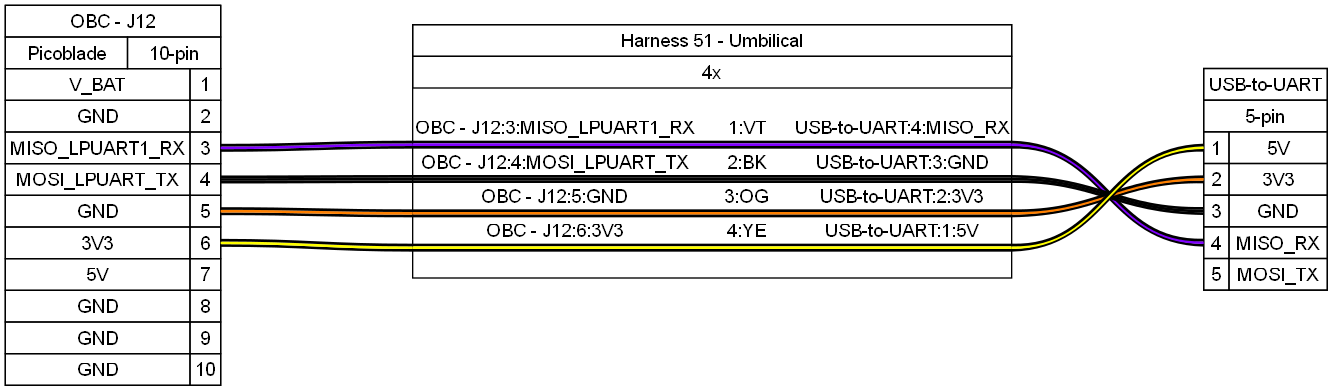
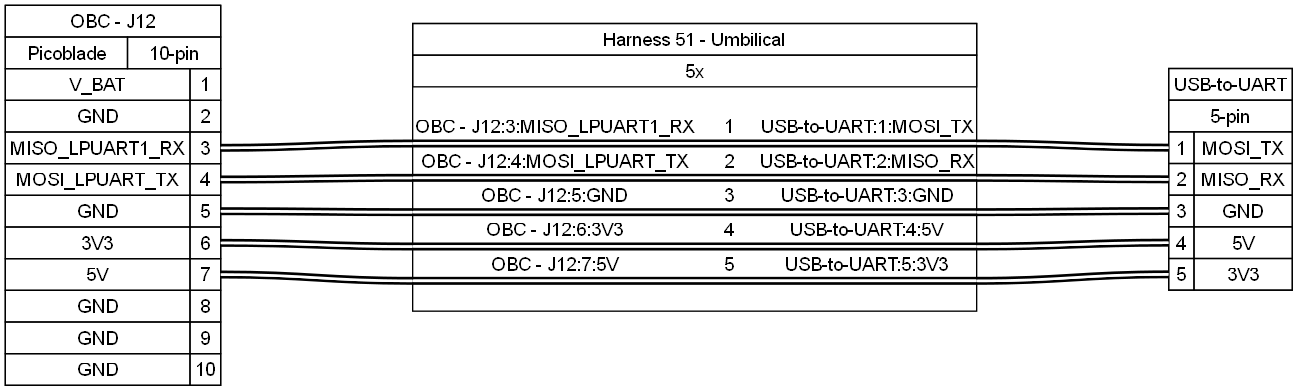
Harness 51 complete
Note that a "hypothetical" USB-to-UART was used

diff --git a/harness51.html b/harness51.html
@@ -33,10 +33,10 @@
 <!-- Generated by graphviz version 12.2.1 (20241206.2353)
  -->
 <!-- Pages: 1 -->
-<svg width="1000pt" height="293pt"
- viewBox="0.00 0.00 999.50 293.00" xmlns="http://www.w3.org/2000/svg" xmlns:xlink="http://www.w3.org/1999/xlink">
+<svg width="973pt" height="293pt"
+ viewBox="0.00 0.00 973.25 293.00" xmlns="http://www.w3.org/2000/svg" xmlns:xlink="http://www.w3.org/1999/xlink">
 <g id="graph0" class="graph" transform="scale(1 1) rotate(0) translate(4 289)">
-<polygon fill="#ffffff" stroke="none" points="-4,4 -4,-289 995.5,-289 995.5,4 -4,4"/>
+<polygon fill="#ffffff" stroke="none" points="-4,4 -4,-289 969.25,-289 969.25,4 -4,4"/>
 <!-- OBC &#45; J12 -->
 <g id="node1" class="node">
 <title>OBC &#45; J12</title>
@@ -91,122 +91,142 @@
 <!-- Harness 51 &#45; Umbilical -->
 <g id="node3" class="node">
 <title>Harness 51 &#45; Umbilical</title>
-<polygon fill="#ffffff" stroke="black" points="754.75,-270.5 305.5,-270.5 305.5,-80.5 754.75,-80.5 754.75,-270.5"/>
-<polygon fill="none" stroke="black" points="305.5,-246.75 305.5,-270.5 754.75,-270.5 754.75,-246.75 305.5,-246.75"/>
-<text text-anchor="start" x="461.88" y="-253.2" font-family="arial" font-size="14.00">Harness 51 &#45; Umbilical</text>
-<polygon fill="none" stroke="black" points="305.5,-223 305.5,-246.75 754.75,-246.75 754.75,-223 305.5,-223"/>
-<text text-anchor="start" x="523" y="-229.45" font-family="arial" font-size="14.00">4x</text>
-<text text-anchor="start" x="410.25" y="-207.7" font-family="arial" font-size="14.00"> </text>
-<text text-anchor="start" x="307.5" y="-187.95" font-family="arial" font-size="14.00">OBC &#45; J12:3:MISO_LPUART1_RX</text>
-<text text-anchor="start" x="523.38" y="-187.95" font-family="arial" font-size="14.00"> &#160;&#160;&#160;&#160;1:VT &#160;&#160;&#160;</text>
-<text text-anchor="start" x="592.25" y="-187.95" font-family="arial" font-size="14.00">USB&#45;to&#45;UART:4:MISO_RX</text>
-<polygon fill="#000000" stroke="none" points="305.5,-181.5 305.5,-183.5 754.75,-183.5 754.75,-181.5 305.5,-181.5"/>
-<polygon fill="#8000ff" stroke="none" points="305.5,-179.5 305.5,-181.5 754.75,-181.5 754.75,-179.5 305.5,-179.5"/>
-<polygon fill="#000000" stroke="none" points="305.5,-177.5 305.5,-179.5 754.75,-179.5 754.75,-177.5 305.5,-177.5"/>
-<text text-anchor="start" x="312" y="-162.2" font-family="arial" font-size="14.00">OBC &#45; J12:4:MOSI_LPUART_TX</text>
-<text text-anchor="start" x="523" y="-162.2" font-family="arial" font-size="14.00"> &#160;&#160;&#160;&#160;2:BK &#160;&#160;&#160;</text>
-<text text-anchor="start" x="608" y="-162.2" font-family="arial" font-size="14.00">USB&#45;to&#45;UART:3:GND</text>
-<polygon fill="#000000" stroke="none" points="305.5,-155.75 305.5,-157.75 754.75,-157.75 754.75,-155.75 305.5,-155.75"/>
-<polygon fill="#000000" stroke="none" points="305.5,-153.75 305.5,-155.75 754.75,-155.75 754.75,-153.75 305.5,-153.75"/>
-<polygon fill="#000000" stroke="none" points="305.5,-151.75 305.5,-153.75 754.75,-153.75 754.75,-151.75 305.5,-151.75"/>
-<text text-anchor="start" x="357.38" y="-136.45" font-family="arial" font-size="14.00">OBC &#45; J12:5:GND</text>
-<text text-anchor="start" x="520.75" y="-136.45" font-family="arial" font-size="14.00"> &#160;&#160;&#160;&#160;3:OG &#160;&#160;&#160;</text>
-<text text-anchor="start" x="611.38" y="-136.45" font-family="arial" font-size="14.00">USB&#45;to&#45;UART:2:3V3</text>
-<polygon fill="#000000" stroke="none" points="305.5,-130 305.5,-132 754.75,-132 754.75,-130 305.5,-130"/>
-<polygon fill="#ff8000" stroke="none" points="305.5,-128 305.5,-130 754.75,-130 754.75,-128 305.5,-128"/>
-<polygon fill="#000000" stroke="none" points="305.5,-126 305.5,-128 754.75,-128 754.75,-126 305.5,-126"/>
-<text text-anchor="start" x="360.75" y="-110.7" font-family="arial" font-size="14.00">OBC &#45; J12:6:3V3</text>
-<text text-anchor="start" x="523" y="-110.7" font-family="arial" font-size="14.00"> &#160;&#160;&#160;&#160;4:YE &#160;&#160;&#160;</text>
-<text text-anchor="start" x="615.12" y="-110.7" font-family="arial" font-size="14.00">USB&#45;to&#45;UART:1:5V</text>
-<polygon fill="#000000" stroke="none" points="305.5,-104.25 305.5,-106.25 754.75,-106.25 754.75,-104.25 305.5,-104.25"/>
-<polygon fill="#ffff00" stroke="none" points="305.5,-102.25 305.5,-104.25 754.75,-104.25 754.75,-102.25 305.5,-102.25"/>
-<polygon fill="#000000" stroke="none" points="305.5,-100.25 305.5,-102.25 754.75,-102.25 754.75,-100.25 305.5,-100.25"/>
-<text text-anchor="start" x="410.25" y="-84.95" font-family="arial" font-size="14.00"> </text>
+<polygon fill="#ffffff" stroke="black" points="728.5,-271.38 305.5,-271.38 305.5,-55.62 728.5,-55.62 728.5,-271.38"/>
+<polygon fill="none" stroke="black" points="305.5,-247.62 305.5,-271.38 728.5,-271.38 728.5,-247.62 305.5,-247.62"/>
+<text text-anchor="start" x="448.75" y="-254.07" font-family="arial" font-size="14.00">Harness 51 &#45; Umbilical</text>
+<polygon fill="none" stroke="black" points="305.5,-223.88 305.5,-247.62 728.5,-247.62 728.5,-223.88 305.5,-223.88"/>
+<text text-anchor="start" x="509.88" y="-230.32" font-family="arial" font-size="14.00">5x</text>
+<text text-anchor="start" x="410.25" y="-208.57" font-family="arial" font-size="14.00"> </text>
+<text text-anchor="start" x="307.5" y="-188.82" font-family="arial" font-size="14.00">OBC &#45; J12:3:MISO_LPUART1_RX</text>
+<text text-anchor="start" x="520.75" y="-188.82" font-family="arial" font-size="14.00"> &#160;&#160;&#160;&#160;1 &#160;&#160;&#160;</text>
+<text text-anchor="start" x="566.75" y="-188.82" font-family="arial" font-size="14.00">USB&#45;to&#45;UART:1:MOSI_TX</text>
+<polygon fill="#000000" stroke="none" points="305.5,-182.38 305.5,-184.38 728.5,-184.38 728.5,-182.38 305.5,-182.38"/>
+<polygon fill="#ffffff" stroke="none" points="305.5,-180.38 305.5,-182.38 728.5,-182.38 728.5,-180.38 305.5,-180.38"/>
+<polygon fill="#000000" stroke="none" points="305.5,-178.38 305.5,-180.38 728.5,-180.38 728.5,-178.38 305.5,-178.38"/>
+<text text-anchor="start" x="312" y="-163.07" font-family="arial" font-size="14.00">OBC &#45; J12:4:MOSI_LPUART_TX</text>
+<text text-anchor="start" x="520.75" y="-163.07" font-family="arial" font-size="14.00"> &#160;&#160;&#160;&#160;2 &#160;&#160;&#160;</text>
+<text text-anchor="start" x="566" y="-163.07" font-family="arial" font-size="14.00">USB&#45;to&#45;UART:2:MISO_RX</text>
+<polygon fill="#000000" stroke="none" points="305.5,-156.62 305.5,-158.62 728.5,-158.62 728.5,-156.62 305.5,-156.62"/>
+<polygon fill="#ffffff" stroke="none" points="305.5,-154.62 305.5,-156.62 728.5,-156.62 728.5,-154.62 305.5,-154.62"/>
+<polygon fill="#000000" stroke="none" points="305.5,-152.62 305.5,-154.62 728.5,-154.62 728.5,-152.62 305.5,-152.62"/>
+<text text-anchor="start" x="357.38" y="-137.32" font-family="arial" font-size="14.00">OBC &#45; J12:5:GND</text>
+<text text-anchor="start" x="520.75" y="-137.32" font-family="arial" font-size="14.00"> &#160;&#160;&#160;&#160;3 &#160;&#160;&#160;</text>
+<text text-anchor="start" x="581.75" y="-137.32" font-family="arial" font-size="14.00">USB&#45;to&#45;UART:3:GND</text>
+<polygon fill="#000000" stroke="none" points="305.5,-130.88 305.5,-132.88 728.5,-132.88 728.5,-130.88 305.5,-130.88"/>
+<polygon fill="#ffffff" stroke="none" points="305.5,-128.88 305.5,-130.88 728.5,-130.88 728.5,-128.88 305.5,-128.88"/>
+<polygon fill="#000000" stroke="none" points="305.5,-126.88 305.5,-128.88 728.5,-128.88 728.5,-126.88 305.5,-126.88"/>
+<text text-anchor="start" x="360.75" y="-111.58" font-family="arial" font-size="14.00">OBC &#45; J12:6:3V3</text>
+<text text-anchor="start" x="520.75" y="-111.58" font-family="arial" font-size="14.00"> &#160;&#160;&#160;&#160;4 &#160;&#160;&#160;</text>
+<text text-anchor="start" x="588.88" y="-111.58" font-family="arial" font-size="14.00">USB&#45;to&#45;UART:4:5V</text>
+<polygon fill="#000000" stroke="none" points="305.5,-105.12 305.5,-107.12 728.5,-107.12 728.5,-105.12 305.5,-105.12"/>
+<polygon fill="#ffffff" stroke="none" points="305.5,-103.12 305.5,-105.12 728.5,-105.12 728.5,-103.12 305.5,-103.12"/>
+<polygon fill="#000000" stroke="none" points="305.5,-101.12 305.5,-103.12 728.5,-103.12 728.5,-101.12 305.5,-101.12"/>
+<text text-anchor="start" x="364.5" y="-85.83" font-family="arial" font-size="14.00">OBC &#45; J12:7:5V</text>
+<text text-anchor="start" x="520.75" y="-85.83" font-family="arial" font-size="14.00"> &#160;&#160;&#160;&#160;5 &#160;&#160;&#160;</text>
+<text text-anchor="start" x="585.12" y="-85.83" font-family="arial" font-size="14.00">USB&#45;to&#45;UART:5:3V3</text>
+<polygon fill="#000000" stroke="none" points="305.5,-79.38 305.5,-81.38 728.5,-81.38 728.5,-79.38 305.5,-79.38"/>
+<polygon fill="#ffffff" stroke="none" points="305.5,-77.38 305.5,-79.38 728.5,-79.38 728.5,-77.38 305.5,-77.38"/>
+<polygon fill="#000000" stroke="none" points="305.5,-75.38 305.5,-77.38 728.5,-77.38 728.5,-75.38 305.5,-75.38"/>
+<text text-anchor="start" x="410.25" y="-60.08" font-family="arial" font-size="14.00"> </text>
 </g>
 <!-- OBC &#45; J12&#45;&#45;Harness 51 &#45; Umbilical -->
 <g id="edge1" class="edge">
 <title>OBC &#45; J12:e&#45;&#45;Harness 51 &#45; Umbilical:w</title>
-<path fill="none" stroke="#000000" stroke-width="2" d="M161.5,-176.13C225.8,-176.15 241.79,-178.52 305.5,-178.5"/>
-<path fill="none" stroke="#8000ff" stroke-width="2" d="M161.5,-178.12C225.51,-178.12 241.49,-180.5 305.5,-180.5"/>
-<path fill="none" stroke="#000000" stroke-width="2" d="M161.5,-180.12C225.21,-180.1 241.2,-182.48 305.5,-182.5"/>
+<path fill="none" stroke="#000000" stroke-width="2" d="M161.5,-176.13C225.92,-176.17 241.88,-179.42 305.5,-179.38"/>
+<path fill="none" stroke="#ffffff" stroke-width="2" d="M161.5,-178.12C225.52,-178.13 241.48,-181.38 305.5,-181.38"/>
+<path fill="none" stroke="#000000" stroke-width="2" d="M161.5,-180.12C225.12,-180.08 241.08,-183.33 305.5,-183.37"/>
 </g>
 <!-- OBC &#45; J12&#45;&#45;Harness 51 &#45; Umbilical -->
 <g id="edge3" class="edge">
 <title>OBC &#45; J12:e&#45;&#45;Harness 51 &#45; Umbilical:w</title>
-<path fill="none" stroke="#000000" stroke-width="2" d="M161.5,-152.38C225.55,-152.38 241.55,-152.75 305.5,-152.75"/>
-<path fill="none" stroke="#000000" stroke-width="2" d="M161.5,-154.37C225.5,-154.37 241.5,-154.75 305.5,-154.75"/>
-<path fill="none" stroke="#000000" stroke-width="2" d="M161.5,-156.37C225.45,-156.37 241.45,-156.75 305.5,-156.75"/>
+<path fill="none" stroke="#000000" stroke-width="2" d="M161.5,-152.38C225.66,-152.38 241.65,-153.63 305.5,-153.63"/>
+<path fill="none" stroke="#ffffff" stroke-width="2" d="M161.5,-154.37C225.5,-154.37 241.5,-155.62 305.5,-155.62"/>
+<path fill="none" stroke="#000000" stroke-width="2" d="M161.5,-156.37C225.35,-156.37 241.34,-157.62 305.5,-157.62"/>
 </g>
 <!-- OBC &#45; J12&#45;&#45;Harness 51 &#45; Umbilical -->
 <g id="edge5" class="edge">
 <title>OBC &#45; J12:e&#45;&#45;Harness 51 &#45; Umbilical:w</title>
-<path fill="none" stroke="#000000" stroke-width="2" d="M161.5,-128.63C225.3,-128.64 241.29,-127.01 305.5,-127"/>
-<path fill="none" stroke="#ff8000" stroke-width="2" d="M161.5,-130.62C225.5,-130.62 241.5,-129 305.5,-129"/>
-<path fill="none" stroke="#000000" stroke-width="2" d="M161.5,-132.62C225.71,-132.61 241.7,-130.99 305.5,-131"/>
+<path fill="none" stroke="#000000" stroke-width="2" d="M161.5,-128.63C225.41,-128.63 241.41,-127.88 305.5,-127.88"/>
+<path fill="none" stroke="#ffffff" stroke-width="2" d="M161.5,-130.62C225.5,-130.62 241.5,-129.88 305.5,-129.88"/>
+<path fill="none" stroke="#000000" stroke-width="2" d="M161.5,-132.62C225.59,-132.62 241.59,-131.87 305.5,-131.87"/>
 </g>
 <!-- OBC &#45; J12&#45;&#45;Harness 51 &#45; Umbilical -->
 <g id="edge7" class="edge">
 <title>OBC &#45; J12:e&#45;&#45;Harness 51 &#45; Umbilical:w</title>
-<path fill="none" stroke="#000000" stroke-width="2" d="M161.5,-104.88C225.08,-104.92 241.04,-101.3 305.5,-101.25"/>
-<path fill="none" stroke="#ffff00" stroke-width="2" d="M161.5,-106.88C225.52,-106.88 241.48,-103.25 305.5,-103.25"/>
-<path fill="none" stroke="#000000" stroke-width="2" d="M161.5,-108.87C225.96,-108.83 241.92,-105.2 305.5,-105.25"/>
+<path fill="none" stroke="#000000" stroke-width="2" d="M161.5,-104.88C225.17,-104.9 241.15,-102.15 305.5,-102.13"/>
+<path fill="none" stroke="#ffffff" stroke-width="2" d="M161.5,-106.87C225.51,-106.88 241.49,-104.12 305.5,-104.12"/>
+<path fill="none" stroke="#000000" stroke-width="2" d="M161.5,-108.87C225.85,-108.85 241.83,-106.1 305.5,-106.12"/>
+</g>
+<!-- OBC &#45; J12&#45;&#45;Harness 51 &#45; Umbilical -->
+<g id="edge9" class="edge">
+<title>OBC &#45; J12:e&#45;&#45;Harness 51 &#45; Umbilical:w</title>
+<path fill="none" stroke="#000000" stroke-width="2" d="M161.5,-81.13C224.96,-81.21 240.89,-76.46 305.5,-76.38"/>
+<path fill="none" stroke="#ffffff" stroke-width="2" d="M161.5,-83.12C225.53,-83.12 241.47,-78.37 305.5,-78.37"/>
+<path fill="none" stroke="#000000" stroke-width="2" d="M161.5,-85.12C226.11,-85.04 242.04,-80.29 305.5,-80.37"/>
 </g>
 <!-- USB&#45;to&#45;UART -->
 <g id="node2" class="node">
 <title>USB&#45;to&#45;UART</title>
-<polygon fill="#ffffff" stroke="black" points="991.5,-237.62 898.75,-237.62 898.75,-71.38 991.5,-71.38 991.5,-237.62"/>
-<polygon fill="none" stroke="black" points="898.75,-213.88 898.75,-237.62 991.5,-237.62 991.5,-213.88 898.75,-213.88"/>
-<text text-anchor="start" x="902.75" y="-220.32" font-family="arial" font-size="14.00">USB&#45;to&#45;UART</text>
-<polygon fill="none" stroke="black" points="898.75,-190.12 898.75,-213.88 991.5,-213.88 991.5,-190.12 898.75,-190.12"/>
-<text text-anchor="start" x="930.12" y="-196.57" font-family="arial" font-size="14.00">5&#45;pin</text>
-<polygon fill="none" stroke="black" points="898.75,-166.38 898.75,-190.12 917.75,-190.12 917.75,-166.38 898.75,-166.38"/>
-<text text-anchor="start" x="904.5" y="-172.82" font-family="arial" font-size="14.00">1</text>
-<polygon fill="none" stroke="black" points="917.75,-166.38 917.75,-190.12 991.5,-190.12 991.5,-166.38 917.75,-166.38"/>
-<text text-anchor="start" x="946.38" y="-172.82" font-family="arial" font-size="14.00">5V</text>
-<polygon fill="none" stroke="black" points="898.75,-142.62 898.75,-166.38 917.75,-166.38 917.75,-142.62 898.75,-142.62"/>
-<text text-anchor="start" x="904.5" y="-149.07" font-family="arial" font-size="14.00">2</text>
-<polygon fill="none" stroke="black" points="917.75,-142.62 917.75,-166.38 991.5,-166.38 991.5,-142.62 917.75,-142.62"/>
-<text text-anchor="start" x="942.62" y="-149.07" font-family="arial" font-size="14.00">3V3</text>
-<polygon fill="none" stroke="black" points="898.75,-118.88 898.75,-142.62 917.75,-142.62 917.75,-118.88 898.75,-118.88"/>
-<text text-anchor="start" x="904.5" y="-125.33" font-family="arial" font-size="14.00">3</text>
-<polygon fill="none" stroke="black" points="917.75,-118.88 917.75,-142.62 991.5,-142.62 991.5,-118.88 917.75,-118.88"/>
-<text text-anchor="start" x="939.25" y="-125.33" font-family="arial" font-size="14.00">GND</text>
-<polygon fill="none" stroke="black" points="898.75,-95.12 898.75,-118.88 917.75,-118.88 917.75,-95.12 898.75,-95.12"/>
-<text text-anchor="start" x="904.5" y="-101.58" font-family="arial" font-size="14.00">4</text>
-<polygon fill="none" stroke="black" points="917.75,-95.12 917.75,-118.88 991.5,-118.88 991.5,-95.12 917.75,-95.12"/>
-<text text-anchor="start" x="923.5" y="-101.58" font-family="arial" font-size="14.00">MISO_RX</text>
-<polygon fill="none" stroke="black" points="898.75,-71.38 898.75,-95.12 917.75,-95.12 917.75,-71.38 898.75,-71.38"/>
-<text text-anchor="start" x="904.5" y="-77.83" font-family="arial" font-size="14.00">5</text>
-<polygon fill="none" stroke="black" points="917.75,-71.38 917.75,-95.12 991.5,-95.12 991.5,-71.38 917.75,-71.38"/>
-<text text-anchor="start" x="924.25" y="-77.83" font-family="arial" font-size="14.00">MOSI_TX</text>
+<polygon fill="#ffffff" stroke="black" points="965.25,-237.62 872.5,-237.62 872.5,-71.38 965.25,-71.38 965.25,-237.62"/>
+<polygon fill="none" stroke="black" points="872.5,-213.88 872.5,-237.62 965.25,-237.62 965.25,-213.88 872.5,-213.88"/>
+<text text-anchor="start" x="876.5" y="-220.32" font-family="arial" font-size="14.00">USB&#45;to&#45;UART</text>
+<polygon fill="none" stroke="black" points="872.5,-190.12 872.5,-213.88 965.25,-213.88 965.25,-190.12 872.5,-190.12"/>
+<text text-anchor="start" x="903.88" y="-196.57" font-family="arial" font-size="14.00">5&#45;pin</text>
+<polygon fill="none" stroke="black" points="872.5,-166.38 872.5,-190.12 891.5,-190.12 891.5,-166.38 872.5,-166.38"/>
+<text text-anchor="start" x="878.25" y="-172.82" font-family="arial" font-size="14.00">1</text>
+<polygon fill="none" stroke="black" points="891.5,-166.38 891.5,-190.12 965.25,-190.12 965.25,-166.38 891.5,-166.38"/>
+<text text-anchor="start" x="898" y="-172.82" font-family="arial" font-size="14.00">MOSI_TX</text>
+<polygon fill="none" stroke="black" points="872.5,-142.62 872.5,-166.38 891.5,-166.38 891.5,-142.62 872.5,-142.62"/>
+<text text-anchor="start" x="878.25" y="-149.07" font-family="arial" font-size="14.00">2</text>
+<polygon fill="none" stroke="black" points="891.5,-142.62 891.5,-166.38 965.25,-166.38 965.25,-142.62 891.5,-142.62"/>
+<text text-anchor="start" x="897.25" y="-149.07" font-family="arial" font-size="14.00">MISO_RX</text>
+<polygon fill="none" stroke="black" points="872.5,-118.88 872.5,-142.62 891.5,-142.62 891.5,-118.88 872.5,-118.88"/>
+<text text-anchor="start" x="878.25" y="-125.33" font-family="arial" font-size="14.00">3</text>
+<polygon fill="none" stroke="black" points="891.5,-118.88 891.5,-142.62 965.25,-142.62 965.25,-118.88 891.5,-118.88"/>
+<text text-anchor="start" x="913" y="-125.33" font-family="arial" font-size="14.00">GND</text>
+<polygon fill="none" stroke="black" points="872.5,-95.12 872.5,-118.88 891.5,-118.88 891.5,-95.12 872.5,-95.12"/>
+<text text-anchor="start" x="878.25" y="-101.58" font-family="arial" font-size="14.00">4</text>
+<polygon fill="none" stroke="black" points="891.5,-95.12 891.5,-118.88 965.25,-118.88 965.25,-95.12 891.5,-95.12"/>
+<text text-anchor="start" x="920.12" y="-101.58" font-family="arial" font-size="14.00">5V</text>
+<polygon fill="none" stroke="black" points="872.5,-71.38 872.5,-95.12 891.5,-95.12 891.5,-71.38 872.5,-71.38"/>
+<text text-anchor="start" x="878.25" y="-77.83" font-family="arial" font-size="14.00">5</text>
+<polygon fill="none" stroke="black" points="891.5,-71.38 891.5,-95.12 965.25,-95.12 965.25,-71.38 891.5,-71.38"/>
+<text text-anchor="start" x="916.38" y="-77.83" font-family="arial" font-size="14.00">3V3</text>
 </g>
 <!-- Harness 51 &#45; Umbilical&#45;&#45;USB&#45;to&#45;UART -->
 <g id="edge2" class="edge">
 <title>Harness 51 &#45; Umbilical:e&#45;&#45;USB&#45;to&#45;UART:w</title>
-<path fill="none" stroke="#000000" stroke-width="2" d="M754.75,-178.5C824.6,-180.49 824.9,-106.99 898.75,-105"/>
-<path fill="none" stroke="#8000ff" stroke-width="2" d="M754.75,-180.5C826.6,-180.5 826.9,-107 898.75,-107"/>
-<path fill="none" stroke="#000000" stroke-width="2" d="M754.75,-182.5C828.6,-180.51 828.9,-107.01 898.75,-109"/>
+<path fill="none" stroke="#000000" stroke-width="2" d="M728.5,-179.38C792.13,-179.41 808.1,-176.29 872.5,-176.25"/>
+<path fill="none" stroke="#ffffff" stroke-width="2" d="M728.5,-181.38C792.52,-181.38 808.48,-178.25 872.5,-178.25"/>
+<path fill="none" stroke="#000000" stroke-width="2" d="M728.5,-183.37C792.9,-183.34 808.87,-180.21 872.5,-180.25"/>
 </g>
 <!-- Harness 51 &#45; Umbilical&#45;&#45;USB&#45;to&#45;UART -->
 <g id="edge4" class="edge">
 <title>Harness 51 &#45; Umbilical:e&#45;&#45;USB&#45;to&#45;UART:w</title>
-<path fill="none" stroke="#000000" stroke-width="2" d="M754.75,-152.75C817.91,-153.73 832.15,-129.73 898.75,-128.75"/>
-<path fill="none" stroke="#000000" stroke-width="2" d="M754.75,-154.75C819.63,-154.75 833.87,-130.75 898.75,-130.75"/>
-<path fill="none" stroke="#000000" stroke-width="2" d="M754.75,-156.75C821.35,-155.77 835.59,-131.77 898.75,-132.75"/>
+<path fill="none" stroke="#000000" stroke-width="2" d="M728.5,-153.63C792.36,-153.63 808.36,-152.5 872.5,-152.5"/>
+<path fill="none" stroke="#ffffff" stroke-width="2" d="M728.5,-155.62C792.5,-155.62 808.5,-154.5 872.5,-154.5"/>
+<path fill="none" stroke="#000000" stroke-width="2" d="M728.5,-157.62C792.64,-157.62 808.64,-156.5 872.5,-156.5"/>
 </g>
 <!-- Harness 51 &#45; Umbilical&#45;&#45;USB&#45;to&#45;UART -->
 <g id="edge6" class="edge">
 <title>Harness 51 &#45; Umbilical:e&#45;&#45;USB&#45;to&#45;UART:w</title>
-<path fill="none" stroke="#000000" stroke-width="2" d="M754.75,-127C821.5,-128.04 835.51,-153.54 898.75,-152.5"/>
-<path fill="none" stroke="#ff8000" stroke-width="2" d="M754.75,-129C819.75,-129 833.75,-154.5 898.75,-154.5"/>
-<path fill="none" stroke="#000000" stroke-width="2" d="M754.75,-131C817.99,-129.96 832,-155.46 898.75,-156.5"/>
+<path fill="none" stroke="#000000" stroke-width="2" d="M728.5,-127.88C792.61,-127.88 808.61,-128.75 872.5,-128.75"/>
+<path fill="none" stroke="#ffffff" stroke-width="2" d="M728.5,-129.88C792.5,-129.88 808.5,-130.75 872.5,-130.75"/>
+<path fill="none" stroke="#000000" stroke-width="2" d="M728.5,-131.87C792.39,-131.87 808.39,-132.75 872.5,-132.75"/>
 </g>
 <!-- Harness 51 &#45; Umbilical&#45;&#45;USB&#45;to&#45;UART -->
 <g id="edge8" class="edge">
 <title>Harness 51 &#45; Umbilical:e&#45;&#45;USB&#45;to&#45;UART:w</title>
-<path fill="none" stroke="#000000" stroke-width="2" d="M754.75,-101.25C828.91,-103.26 828.59,-178.26 898.75,-176.25"/>
-<path fill="none" stroke="#ffff00" stroke-width="2" d="M754.75,-103.25C826.91,-103.25 826.59,-178.25 898.75,-178.25"/>
-<path fill="none" stroke="#000000" stroke-width="2" d="M754.75,-105.25C824.91,-103.24 824.59,-178.24 898.75,-180.25"/>
+<path fill="none" stroke="#000000" stroke-width="2" d="M728.5,-102.13C792.87,-102.16 808.84,-105.03 872.5,-105"/>
+<path fill="none" stroke="#ffffff" stroke-width="2" d="M728.5,-104.13C792.51,-104.12 808.49,-107 872.5,-107"/>
+<path fill="none" stroke="#000000" stroke-width="2" d="M728.5,-106.12C792.16,-106.09 808.13,-108.97 872.5,-109"/>
+</g>
+<!-- Harness 51 &#45; Umbilical&#45;&#45;USB&#45;to&#45;UART -->
+<g id="edge10" class="edge">
+<title>Harness 51 &#45; Umbilical:e&#45;&#45;USB&#45;to&#45;UART:w</title>
+<path fill="none" stroke="#000000" stroke-width="2" d="M728.5,-76.38C793.12,-76.46 809.05,-81.34 872.5,-81.25"/>
+<path fill="none" stroke="#ffffff" stroke-width="2" d="M728.5,-78.38C792.54,-78.38 808.46,-83.25 872.5,-83.25"/>
+<path fill="none" stroke="#000000" stroke-width="2" d="M728.5,-80.37C791.95,-80.29 807.88,-85.16 872.5,-85.25"/>
 </g>
 </g>
 </svg>
@@ -230,7 +250,7 @@
   </tr>
   <tr>
     <td class="bom_col_id">1</td>
-    <td class="bom_col_description">Cable, 4 wires</td>
+    <td class="bom_col_description">Cable, 5 wires</td>
     <td class="bom_col_qty">0</td>
     <td class="bom_col_unit">m</td>
     <td class="bom_col_designators">Harness 51 - Umbilical</td>
